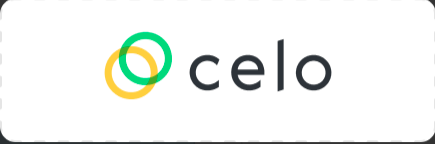
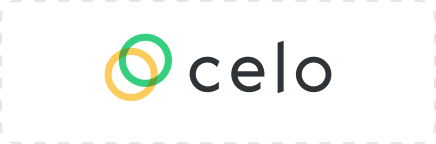
Completed Devfolio Sponsors

diff --git a/docs/index.html b/docs/index.html
@@ -1113,16 +1113,16 @@ THEBRIO TODO
     </div>
     <div class="row  main-sponsors" style="margin-bottom: 3%;justify-content: center;">
        <div class="sponsors_main2 com-partner">
-             <a href="http://www.ieeeup.org/ieee-uttar-pradesh-executive-committee/" target="_blank"><img
-               src="assets/webp/WhatsApp-Image-2022-03-27-at-09.03.52.webp" class="sponsor-image elast"></a>
+             <a href="https://tezos.com/" target="_blank"><img
+               src="./images/sponsors/tezos.png" class="sponsor-image elast"></a>
         </div>
         <div class="sponsors_main2 com-partner">
-            <a href="http://www.ieeeup.org/ieee-uttar-pradesh-executive-committee/" target="_blank"><img
-              src="assets/webp/IMG_6156.webp" class="sponsor-image elast"></a>
+            <a href="https://celo.org/" target="_blank"><img
+              src="./images/sponsors/celo.png" class="sponsor-image elast"></a>
        </div>
        <div class="sponsors_main2 com-partner">
-        <a href="http://www.ieeeup.org/ieee-uttar-pradesh-executive-committee/" target="_blank"><img
-          src="assets/webp/tezos.webp" class="sponsor-image elast"></a>
+        <a href="https://filecoin.io/" target="_blank"><img
+          src="images/sponsors/filecoin.png" class="sponsor-image elast"></a>
    </div>
         <div class="sponsors_main2 com-partner">
             <a href="https://www.bluelearn.in/" target="_blank"><img
